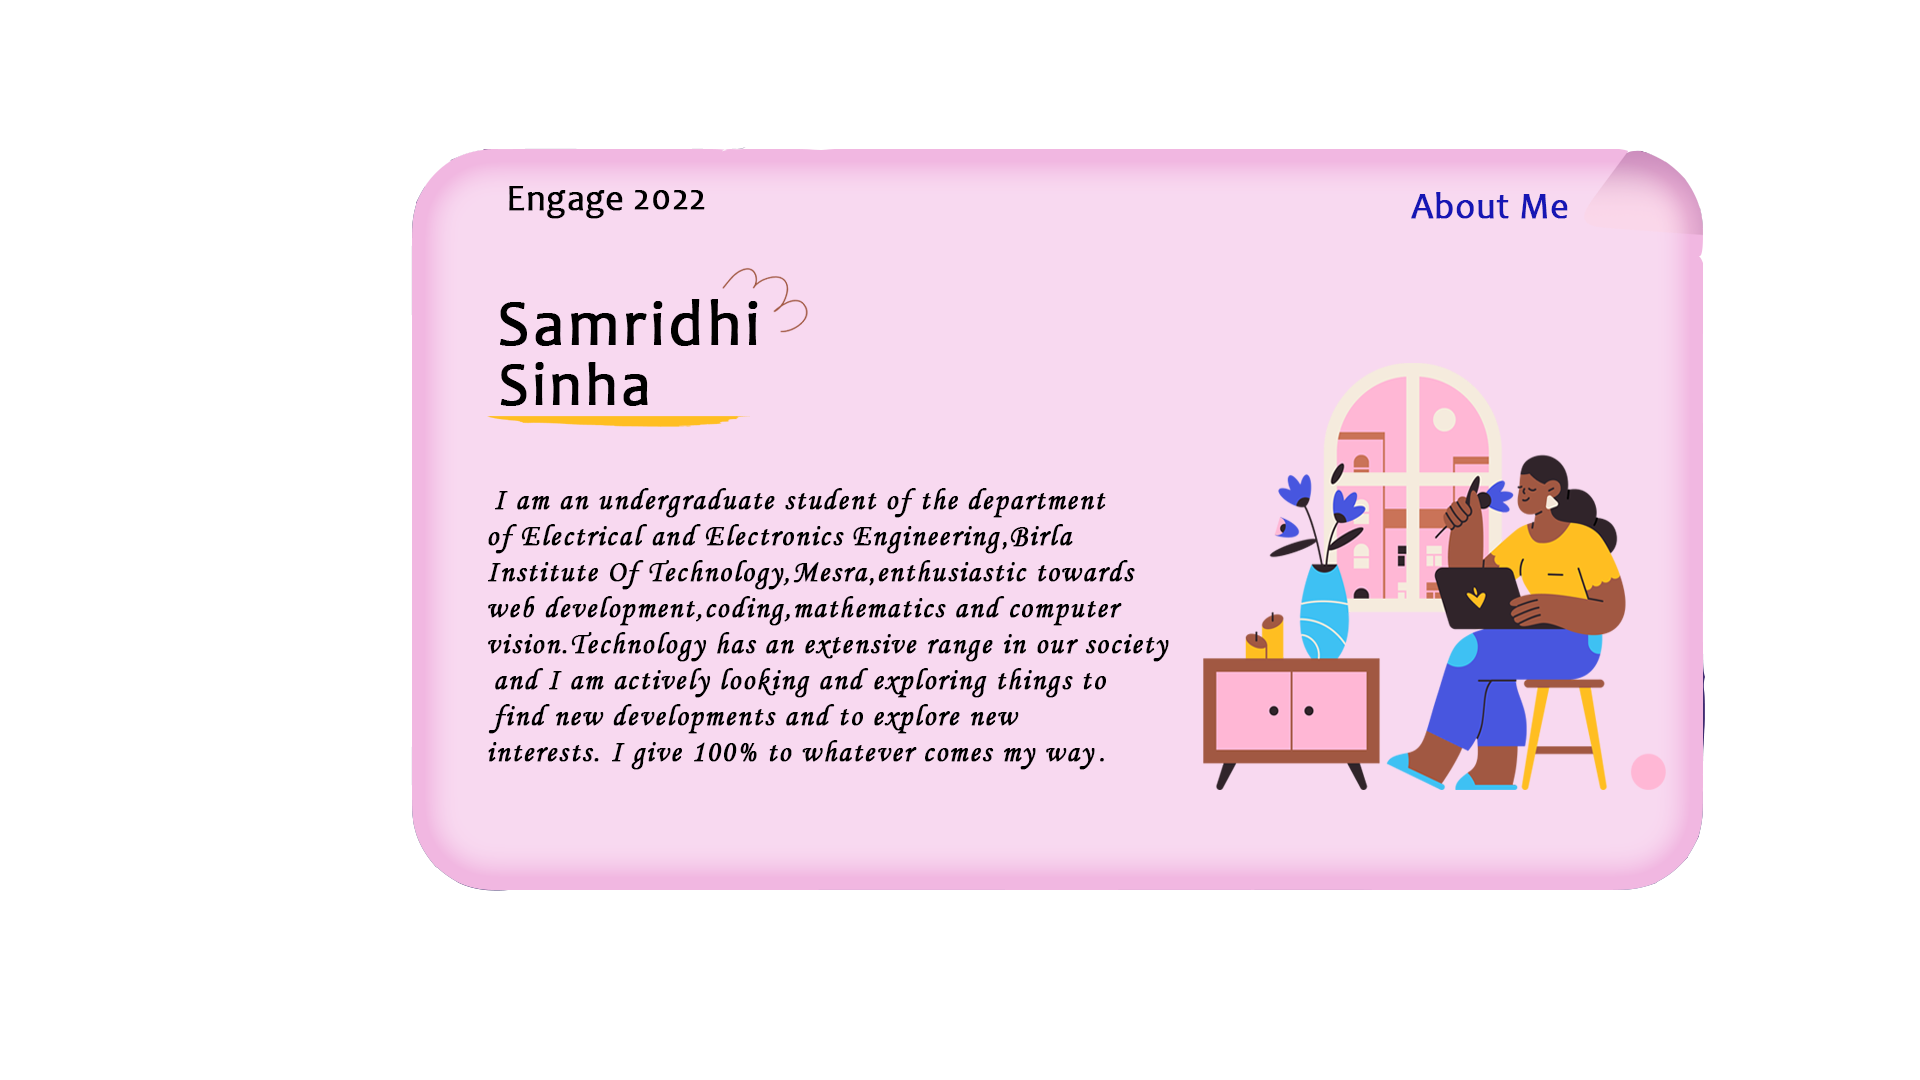
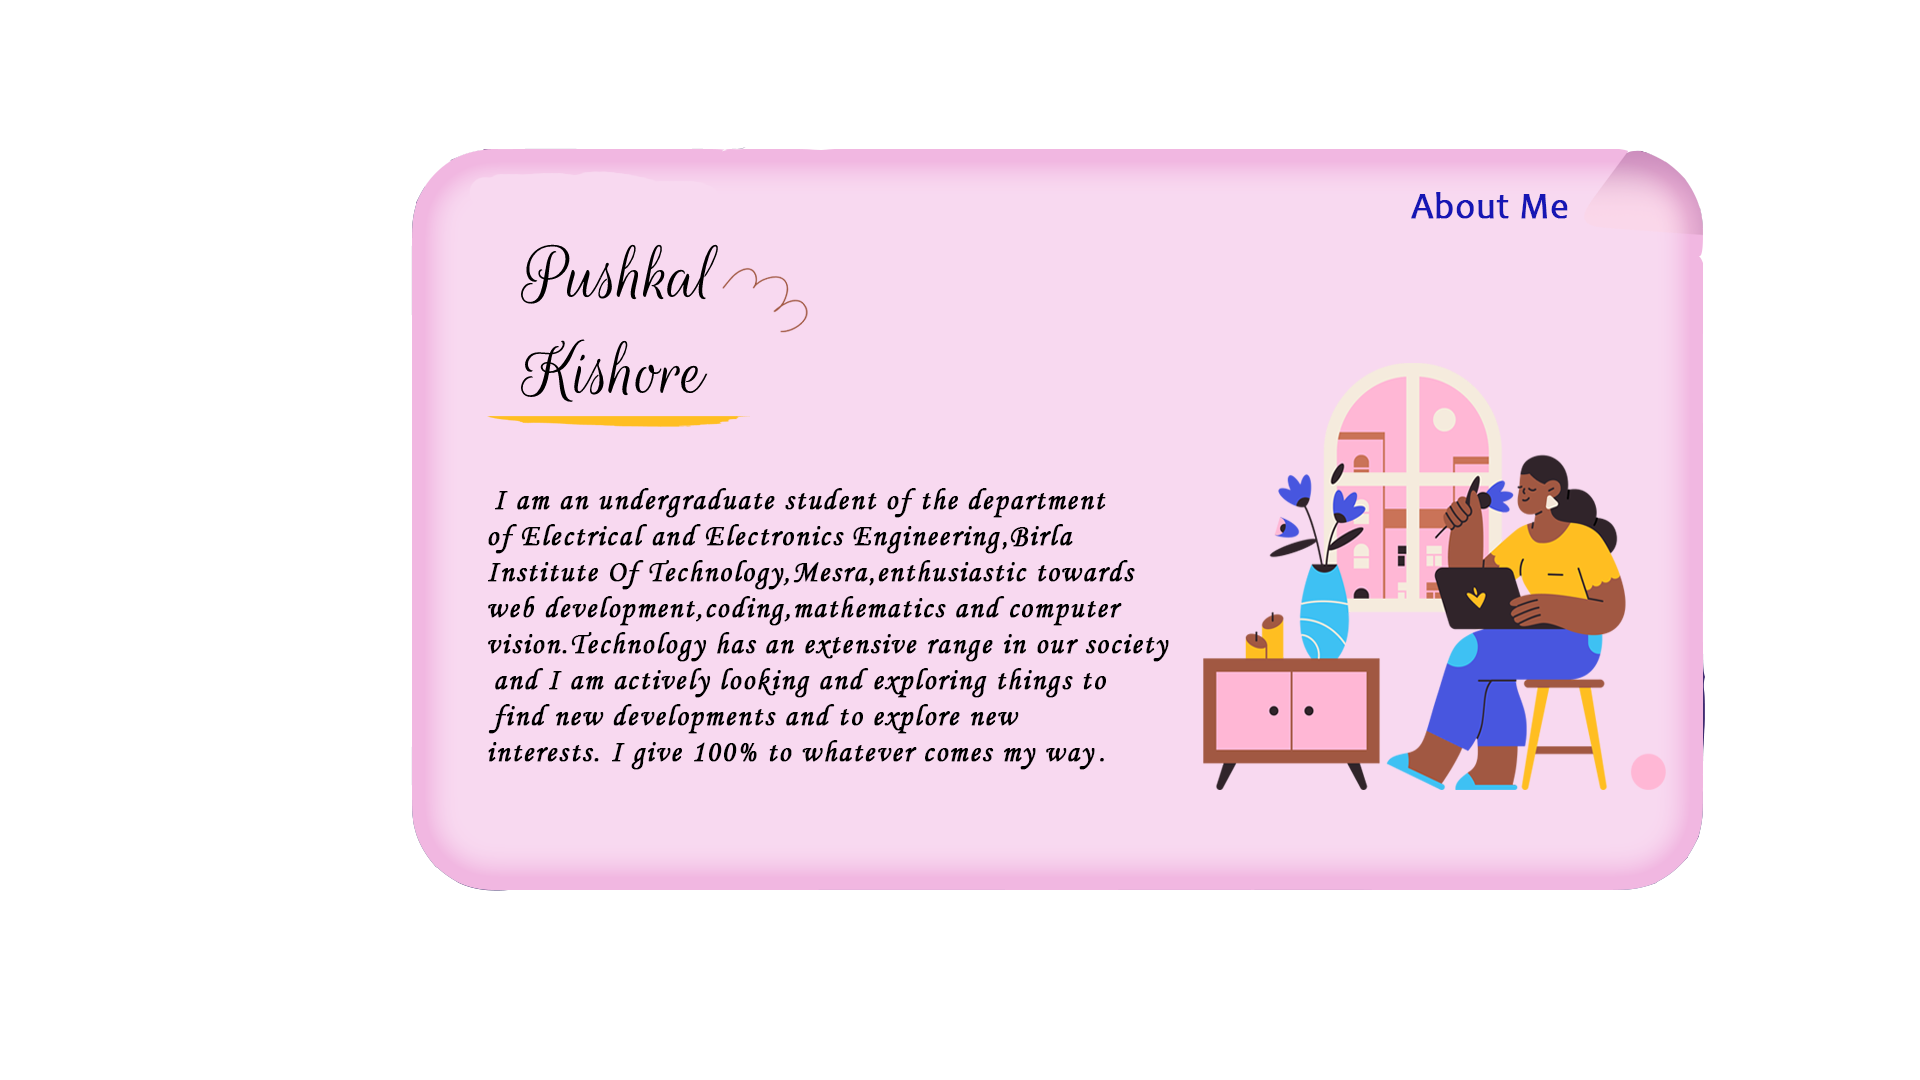
Changed the about me and contact me section

Changed region(s): [[0.25, 0.1528, 0.4062, 0.3972]]

diff --git a/templates/about.html b/templates/about.html
@@ -39,7 +39,7 @@
             </div>
           
           <div class="Frame-9-outer">
-              <img src="../static/css/assets/images/finalaboutme1.png" alt="adadad" class="Frame-9">
+              <img src="../static/css/assets/images/finalaboutme.png" alt="adadad" class="Frame-9">
         </div>
       </div>
 
